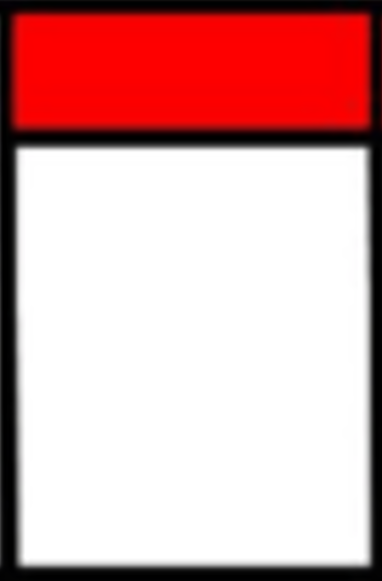
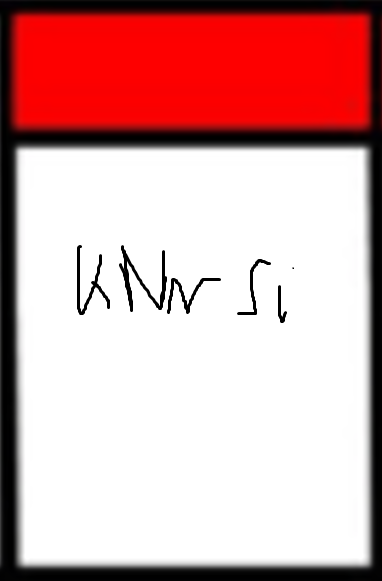
grafiki pol

diff --git a/src/Okno/AkcjaNieruchomosciOkno.py b/src/Okno/AkcjaNieruchomosciOkno.py
@@ -10,7 +10,6 @@ class AkcjaNieruchomosciOkno(Okno):
         self.H = 800
         self.W = 1200
         self.gra = gra
-        self.pole_png = pygame.transform.scale(pygame.image.load("graphics/pole.png"), (0.28 * self.W, 0.64 * self.H))
 
         self.kolor_przycisku = (70, 70, 70)
         self.kolor_hovera = (150, 150, 150)
@@ -65,6 +64,7 @@ class AkcjaNieruchomosciOkno(Okno):
         self.posiadlosc_gracza = posiadlosc
         self.gracz = gracz
         self.ustaw_poprawny_przycisk_domek_hotel()
+        self.pole_png = pygame.transform.scale(pygame.image.load(self.posiadlosc_do_zakupu.sciezka_do_grafiki), (0.28 * self.W, 0.64 * self.H))
         
 
     def kup_domek(self):
